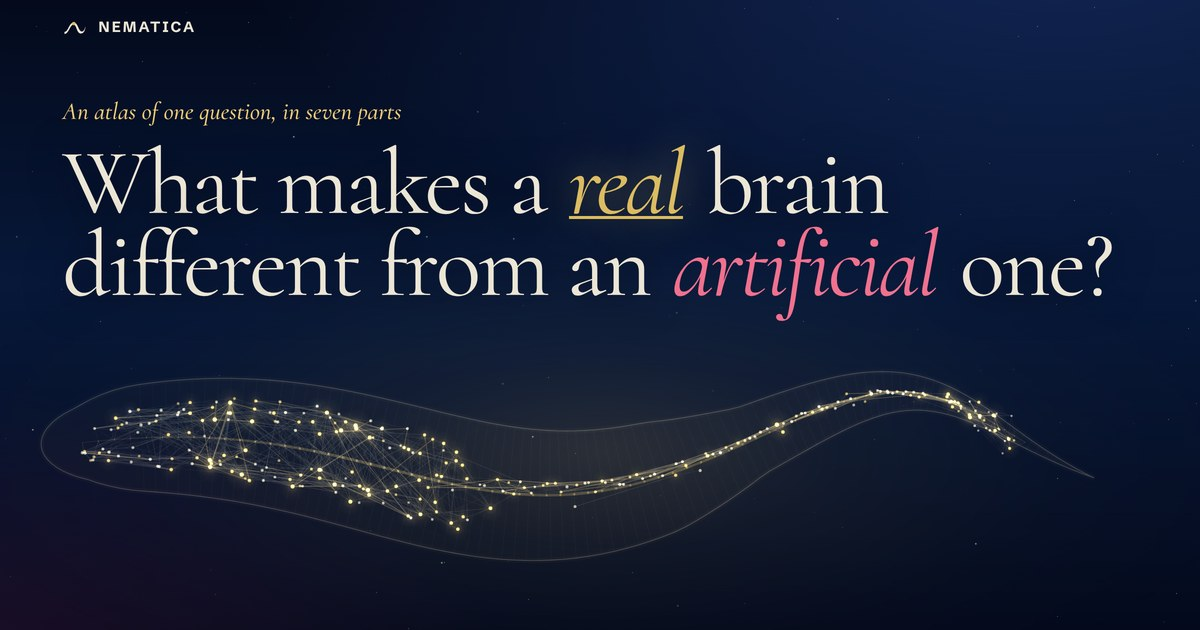
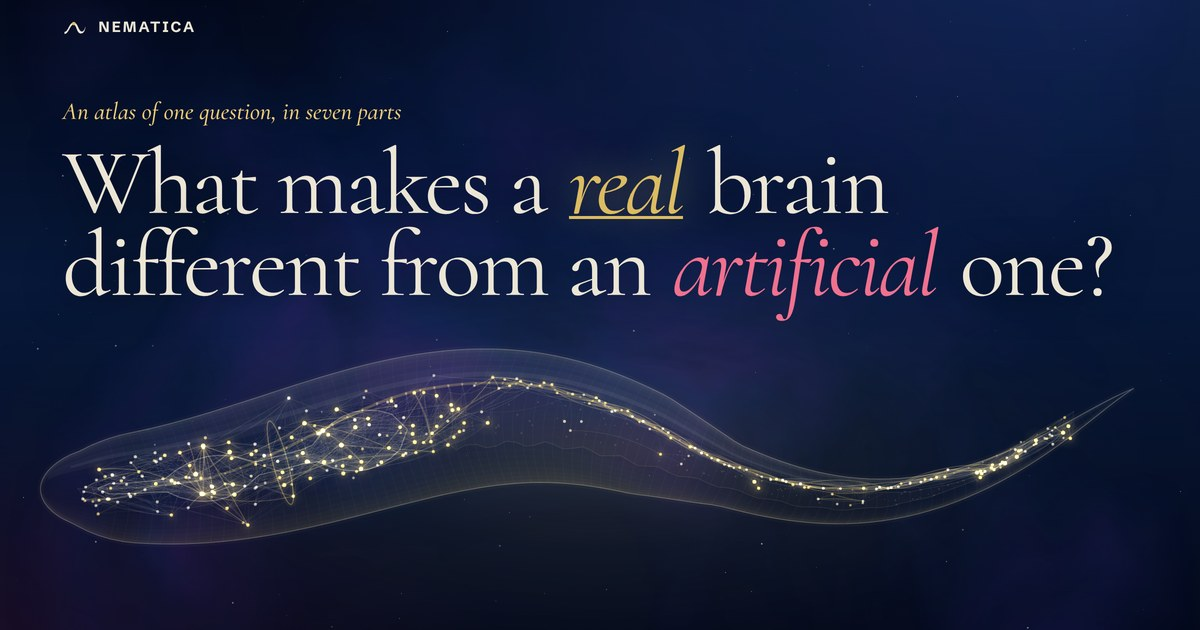
Site: three plates show what they say
On the Face, embers leave the individuality curve and fall once it sinks
under the real worms. On the Long Memory, a slow swell passes along the
marks of the network given a slow drive. On the Waning, the real worm's
second answer starts as a full moon and fades to the phase that was
measured. The sharing preview is redrawn from the current first screen.

Claude-Session: https://claude.ai/code/session_01MajxYLvWkedCbRCubX3MC6

Changed region(s): [[0.0308, 0.3016, 0.925, 0.8746]]

diff --git a/web/assets/lumen.js b/web/assets/lumen.js
@@ -27,7 +27,7 @@
     r = g.createRadialGradient(n / 2, n * 0.4, R * 0.74, n / 2, n * 0.4, R * 1.12); r.addColorStop(0, "rgba(255,255,255,0)"); r.addColorStop(1, "rgba(255,255,255,.3)"); g.fillStyle = r; g.fillRect(0, n * 0.56, n, n * 0.44);
     r = g.createRadialGradient(n * 0.35, n * 0.3, 0, n * 0.35, n * 0.3, R * 0.34); r.addColorStop(0, "rgba(255,255,255,.95)"); r.addColorStop(1, "rgba(255,255,255,0)"); g.fillStyle = r; g.fillRect(0, 0, n, n); g.restore(); });
   // a grain of gold dust: a point with a little light round it
-  const grain = (k) => sprite("g" + k, 24, (g, n) => { const r = g.createRadialGradient(n / 2, n / 2, 0, n / 2, n / 2, n / 2), c = k ? [255, 244, 214] : [246, 204, 104];
+  const grain = (k) => sprite("g" + k, 24, (g, n) => { const r = g.createRadialGradient(n / 2, n / 2, 0, n / 2, n / 2, n / 2), c = k === 2 ? [255, 122, 158] : k ? [255, 244, 214] : [246, 204, 104];
     r.addColorStop(0, rgba(c, 1)); r.addColorStop(0.22, rgba(c, 0.85)); r.addColorStop(0.5, rgba(c, 0.2)); r.addColorStop(1, rgba(c, 0)); g.fillStyle = r; g.fillRect(0, 0, n, n); });
   const WASH = [228, 172, 58];
   // the four points a bright light throws
@@ -69,6 +69,14 @@
     const s = u * r.len * 1.25, fade = Math.sin(PI * Math.min(1, u * 1.02));
     [[0.2, 0, 0.1], [0.13, 0.02, 0.16], [0.07, 0.035, 0.26]].forEach((p) => { if (trace(g, r, s - p[0] * r.len, s - p[1] * r.len)) { g.lineWidth = 2.6 * r.w; g.strokeStyle = rgba([255, 250, 236], p[2] * fade); g.stroke(); } });
   }
+  // a curve that is losing something: embers leave it and fall, more of them where it has sunk further
+  function shed(g, r, t, A) {
+    const a = smooth((A - r.d) / 900); if (a <= 0 || REDUCED) return; const P = r.pts, C = r.cum, im = grain(2);
+    for (const e of r.em) { const d = e.u * r.len; let i = 1; while (i < P.length - 1 && C[i] < d) i++;
+      const sg = C[i] - C[i - 1] || 1, f = (d - C[i - 1]) / sg, x0 = P[i - 1][0] + (P[i][0] - P[i - 1][0]) * f, y0 = P[i - 1][1] + (P[i][1] - P[i - 1][1]) * f, w = Math.min(1, Math.max(0, (y0 - r.y0) / r.span));
+      if (w <= 0.02) continue; const p = (t / e.per + e.off) % 1, y = y0 + p * p * e.fall * (0.4 + 0.6 * w), x = x0 + e.sway * Math.sin(p * 5 + e.off * 9) * p, sz = e.s * (1 - 0.45 * p);
+      g.globalAlpha = a * Math.min(1, w * 1.6) * Math.min(1, p * 9) * Math.pow(1 - p, 1.2); g.drawImage(im, x - sz / 2, y - sz / 2, sz, sz); }
+  }
   // a line from one mark to another, and now and then a light that runs along it and lands
   function beam(g, b, t, A, now) {
     const gr = smooth((A - b.d) / 520); if (gr <= 0) return;
@@ -92,13 +100,14 @@
     g.globalCompositeOperation = "lighter";
     for (const b of L.bands) dust(g, b, t, smooth((A - b.d) / 1100));
     for (const r of L.ribbons) ribbon(g, r, t, A);
+    for (const r of L.sheds) shed(g, r, t, A);
     for (const b of L.beams) beam(g, b, t, A, now);
     const S = L.stars;
     for (const s of S) {                                        // what each mark throws
       s.a = smooth((A - s.d) / 420); if (s.a <= 0) continue;
       s.h += ((s.hot ? 1 : 0) - s.h) * 0.22; s.fl = Math.exp(-Math.max(0, A - s.d) / 300) * (A < 1e8 ? 1 : 0) + (s.kick ? Math.exp(-(now - s.kick) / 340) * 0.75 : 0);
       if (s.kind === "ring" && s.h < 0.02) continue;
-      const R = s.r * (s.kind === "ring" ? 2.6 * s.h : 3.3 * (1 + 0.09 * Math.sin(t * s.om + s.ph)) + 3.2 * s.fl + 1.7 * s.h);
+      const R = s.r * (s.kind === "ring" ? 2.6 * s.h : 3.3 * (1 + 0.09 * Math.sin(t * s.om + s.ph)) + 3.2 * s.fl + 1.7 * s.h + (s.wave && !REDUCED ? s.wave * (0.5 + 0.5 * Math.sin(t * 0.8 - s.x * 0.012)) : 0));
       g.globalAlpha = s.a * (s.kind === "ring" ? 0.7 : 0.92); g.drawImage(halo(s.kind), s.x - R, s.y - R, 2 * R, 2 * R);
     }
     g.globalCompositeOperation = "source-over";
@@ -134,13 +143,14 @@
     const dpr = Math.min(3, window.devicePixelRatio || 1), cv = document.createElement("canvas"); cv.className = "lum"; cv.setAttribute("aria-hidden", "true");
     cv.width = Math.round(w * dpr); cv.height = Math.round(h * dpr); host.appendChild(cv);
     const q = rnd(Math.round(w * 31 + h * 17 + LAYERS.length * 101));
-    const L = { host, cv, g: cv.getContext("2d"), w, h, dpr, stars: [], beams: [], bands: [], ribbons: [], vis: !io, born: 0, old: !!host.closest(".in") };
+    const L = { host, cv, g: cv.getContext("2d"), w, h, dpr, stars: [], beams: [], bands: [], ribbons: [], sheds: [], vis: !io, born: 0, old: !!host.closest(".in") };
     LAYERS.push(L); if (io) io.observe(cv); else kick();
     const grains = (area, long) => { const n = Math.round(Math.min(1500, Math.max(30, area / 44))), f = new Float32Array(n * 5);
       for (let i = 0, k = 0; i < n; i++, k += 5) { f[k] = q(); f[k + 1] = 0.02 + q() * 0.96; f[k + 2] = 0.7 + q() * q() * 1.5; f[k + 3] = q() * TAU; f[k + 4] = (2.5 + q() * 6) / Math.max(40, long); } return { f, n }; };
     return {
       // a mark: kind is real, copy, bone or ring. The thing returned can be told it is under the pointer (hot) or struck (kick)
-      star(kind, x, y, r, delay) { const s = { kind, x, y, r, d: delay || 0, ph: q() * TAU, om: 0.5 + q() * 1.1, per: 7 + q() * 11, off: q(), hot: 0, h: 0, a: 0, fl: 0, kick: 0 }; L.stars.push(s); return s; },
+      // wave: how far its glow swells as a slow wave passes along the plate, in its own radii
+      star(kind, x, y, r, delay, wave) { const s = { kind, x, y, r, d: delay || 0, ph: q() * TAU, om: 0.5 + q() * 1.1, per: 7 + q() * 11, off: q(), hot: 0, h: 0, a: 0, fl: 0, kick: 0, wave: wave || 0 }; L.stars.push(s); return s; },
       heat(s, on) { s.hot = on ? 1 : 0; kick(); },
       beam(x0, y0, x1, y1, ka, kb, delay, o) { o = o || {}; const len = Math.hypot(x1 - x0, y1 - y0);
         const b = { x0, y0, x1, y1, ka, kb, ca: COL[ka], cb: COL[kb], d: delay || 0, w: o.w || 1.25, a: o.a == null ? 0.72 : o.a, glow: o.glow !== false, pulse: !!o.pulse, fall: !!o.fall, to: o.to || null,
@@ -150,6 +160,10 @@
       arcBand(cx, cy, r0, r1, a0, a1, delay) { const gr = grains(Math.abs(a1 - a0) * 0.5 * (r1 * r1 - r0 * r0), Math.abs(a1 - a0) * r1); L.bands.push({ arc: true, cx, cy, r0, r1, a0, a1, d: delay || 0, f: gr.f, n: gr.n }); },
       ribbon(pts, kind, delay, o) { o = o || {}; const cum = [0]; for (let i = 1; i < pts.length; i++) cum.push(cum[i - 1] + Math.hypot(pts[i][0] - pts[i - 1][0], pts[i][1] - pts[i - 1][1]));
         L.ribbons.push({ pts, cum, len: cum[cum.length - 1], c: COL[kind], d: delay || 0, w: o.w || 1, off: o.off != null ? o.off : q() * 6, per: o.per || 9 }); },
+      // embers falling from a curve, wherever it lies below the level y0; thickest where it is span or more below
+      shed(pts, y0, span, delay, n) { const cum = [0]; for (let i = 1; i < pts.length; i++) cum.push(cum[i - 1] + Math.hypot(pts[i][0] - pts[i - 1][0], pts[i][1] - pts[i - 1][1]));
+        const em = []; for (let i = 0; i < (n || 90); i++) em.push({ u: Math.sqrt(q()), per: 2.8 + q() * 3.6, off: q(), fall: 34 + q() * 62, sway: (q() - 0.5) * 18, s: 5 + q() * q() * 7.5 });
+        L.sheds.push({ pts, cum, len: cum[cum.length - 1], y0, span, d: delay || 0, em }); },
     };
   }
   window.NEMATICA_LUMEN = { layer };

diff --git a/web/assets/atlas.js b/web/assets/atlas.js
@@ -195,7 +195,7 @@
     el("stop", { offset: 0, "stop-color": C.copy, "stop-opacity": 0.03 }, lg); el("stop", { offset: 1, "stop-color": C.copy, "stop-opacity": 0.3 }, lg);
     if (lost.length > 1) rv(el("path", { d: `M${lost[0][0].toFixed(1)} ${yB(1)}` + lost.map((q) => `L${q[0].toFixed(1)} ${q[1].toFixed(1)}`).join("") + `V${yB(1)}Z`, fill: `url(#${gid})` }, s), 40, 20);
     glowLine(s, dOf(pA), C.bone, 2, L); glowLine(s, dOf(pB), C.lit, 2, L);
-    if (L) { L.ribbon(pA, "bone", 0, { off: 1.5 }); L.ribbon(pB, "copy", 0, { off: 2.4 }); }
+    if (L) { L.ribbon(pA, "bone", 0, { off: 1.5 }); L.ribbon(pB, "copy", 0, { off: 2.4 }); L.shed(pB, yB(0.96), yB(0.5) - yB(0.96), 1500, nar ? 70 : 150); }      // individuality falling away: embers leave the curve once it sinks under the real worms
     const tipOf = (j) => `<b>Pull toward the average: ${Number(D[j].lam).toLocaleString()}</b>${row("Forecasting skill (R²)", f2(D[j].r2, 3))}${row("Individuality (real worms are 1)", f2(D[j].ind, 2))}`;
     pA.forEach((q, j) => hover(dot(S, "bone", q[0], q[1], 5, j, 190), tipOf(j)));
     pB.forEach((q, j) => hover(dot(S, "full", q[0], q[1], 5.4, j, 190), tipOf(j)));
@@ -224,7 +224,7 @@
     else el("path", { d: D.map((d, i) => (i ? "L" : "M") + x(i).toFixed(1) + " " + y(d.m).toFixed(1)).join(""), fill: "none", stroke: C.gold, "stroke-width": 9, "stroke-opacity": 0.1, "stroke-linejoin": "round", "stroke-linecap": "round" }, s);
     D.forEach((d, i) => { const xi = x(i), col = el("g", {}, s);
       if (L) { L.beam(xi, y(d.rnn), xi, y(d.m), "ring", "real", i * 22 + 100, { a: 0.42, w: 1, glow: false });
-        if (d.slow != null) L.star("copy", xi, y(d.slow), r - 1.2, i * 22 + 420); L.star("ring", xi, y(d.rnn), r - 0.6, i * 22); L.star("real", xi, y(d.m), r, i * 22 + 180); }
+        if (d.slow != null) L.star("copy", xi, y(d.slow), r - 1.2, i * 22 + 420, 3.2); L.star("ring", xi, y(d.rnn), r - 0.6, i * 22); L.star("real", xi, y(d.m), r, i * 22 + 180); }      // the slow drive shows as a slow swell passing along its marks
       else { rv(el("path", { d: `M${px(xi)} ${y(d.m)}V${y(d.rnn)}`, stroke: C.line }, col), i, 22);
         if (d.slow != null) rv(mark.full(col, xi, y(d.slow), r - 1.2), i, 22);
         rv(mark.ring(col, xi, y(d.rnn), r - 0.6), i, 22); rv(mark.real(col, xi, y(d.m), r), i, 22); }
@@ -324,6 +324,7 @@
     const r = nar ? 30 : 50, x1 = r * 1.5 + 2, x2 = x1 + r * 2 + (nar ? 44 : 76), yA = nar ? 74 : 96, yB = nar ? 232 : 256;
     [[yA, "real", mid, "A real worm"], [yB, "copy", 1, "An artificial network"]].forEach(([yy, kind, f, name], k) => {
       rv(moon(s, x1, yy, r, 1, kind), k * 4, 120); rv(moon(s, x2, yy, r, f, kind), k * 4 + 2, 120);
+      if (!k) moon(s, x2, yy, r, 1, kind).classList.add("wane");      // asked again, the real worm's answer is seen to fade: a full moon over the waned one, which then goes
       el("path", { d: `M${x1 + r + 10} ${px(yy)}H${x2 - r - 12}m-7 -4.5l7 4.5-7 4.5`, fill: "none", stroke: C.b3 }, s);
       if (!k) [lo, hi].forEach((v) => { const rx = r * Math.abs(1 - 2 * v);
         el("path", { d: `M${x2} ${yy - r}A${rx.toFixed(2)} ${r} 0 0 ${v < 0.5 ? 0 : 1} ${x2} ${yy + r}`, fill: "none", stroke: C.bone, "stroke-dasharray": "2 4", "stroke-opacity": 0.85 }, s); });

diff --git a/web/assets/atlas.css b/web/assets/atlas.css
@@ -157,6 +157,11 @@ ol, ul { padding: 0; list-style: none; }
 /* the light under a plate: lumen.js paints the marks and their glow here; the SVG of scales and words lies over it */
 .lum { position: absolute; left: 0; top: 0; width: 100%; height: auto; pointer-events: none; }
 .fig-host > svg, .ledger .strip > svg { position: relative; }
+/* the waning: the second answer starts whole and fades to what was measured */
+.fig .wane { opacity: 0; pointer-events: none; }
+.in .wane { animation: wane 4.2s ease .3s both; }
+@keyframes wane { 0% { opacity: 0; } 10% { opacity: 1; } 42% { opacity: 1; } 100% { opacity: 0; } }
+@media (prefers-reduced-motion: reduce) { .in .wane { animation: none; } }
 .ledger .strip { position: relative; }
 .fig figcaption { font: 500 .86rem/1.5 var(--sans); color: var(--bone-3); margin-top: 14px; max-width: 62rem; }
 .fig svg text { font-family: var(--sans); }

diff --git a/web/index.html b/web/index.html
@@ -17,7 +17,7 @@
 <meta property="og:image:width" content="1200">
 <meta property="og:image:height" content="630">
 <meta name="twitter:card" content="summary_large_image">
-<link rel="stylesheet" href="assets/atlas.css?v=10">
+<link rel="stylesheet" href="assets/atlas.css?v=11">
 </head>
 <body>
 <a class="skip" href="#seven">Skip to the seven questions</a>
@@ -355,8 +355,8 @@
 <script src="data/wiring.js?v=2"></script>
 <script src="assets/orbs.js?v=2"></script>
 <script src="assets/sky.js?v=8"></script>
-<script src="assets/lumen.js?v=1"></script>
-<script src="assets/atlas.js?v=8"></script>
+<script src="assets/lumen.js?v=2"></script>
+<script src="assets/atlas.js?v=9"></script>
 <script src="assets/emblems.js?v=2"></script>
 <script src="assets/bench.js?v=2"></script>
 </body>
